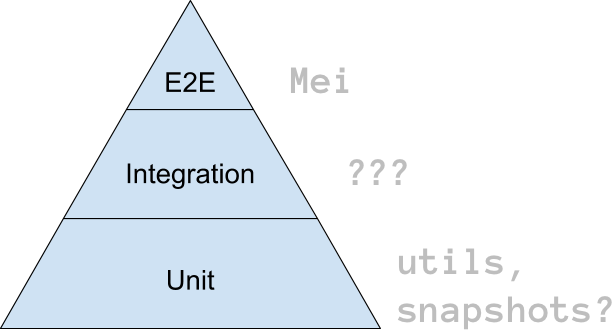
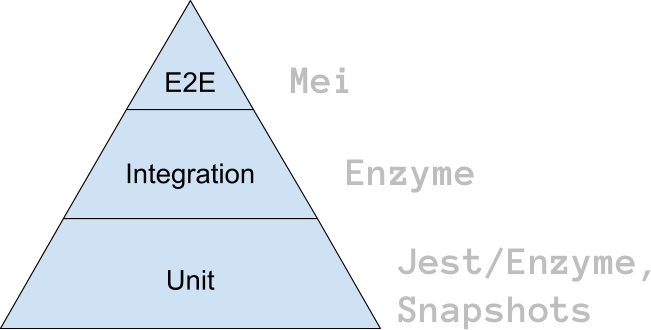
wip

diff --git a/snippets/gist.jsx b/snippets/gist.jsx
@@ -1,0 +1,61 @@
+//  login.js
+
+import React from 'react';
+
+const Login = ({ onSubmit }) => (
+  <div>
+    <form
+      data-test="login-form"
+      onSubmit={e => {
+        e.preventDefault();
+        const { username, password } = e.target.elements;
+        onSubmit({
+          username: username.value,
+          password: password.value,
+        });
+      }}
+    >
+      <input
+        placeholder="Username..."
+        name="username"
+        data-test="username-input"
+      />
+      <input
+        placeholder="Password..."
+        type="password"
+        name="password"
+        data-test="password-input"
+      />
+      <button type="submit" data-test="login-submit">
+        Submit
+      </button>
+    </form>
+  </div>
+);
+
+export default Login;
+
+//  login.test.js
+
+import React from 'react';
+import ReactDOM from 'react-dom';
+import Login from './login';
+
+const findElementByTestId = (node, id) =>
+  node.querySelector(`[data-test="${id}"]`);
+
+test('calls onSubmit with the username and password when submitted', () => {
+  const fakeUser = { username: 'chucknorris', password: '(╯°□°）╯︵ ┻━┻' };
+  const handleSubmit = jest.fn();
+  const div = document.createElement('div');
+  ReactDOM.render(<Login onSubmit={handleSubmit} />, div);
+  const usernameNode = findElementByTestId(div, 'username-input');
+  const passwordNode = findElementByTestId(div, 'password-input');
+  const formWrapper = findElementByTestId(div, 'login-form');
+  usernameNode.value = fakeUser.username;
+  passwordNode.value = fakeUser.password;
+  const event = new window.Event('submit');
+  formWrapper.dispatchEvent(event);
+  expect(handleSubmit).toHaveBeenCalledTimes(1);
+  expect(handleSubmit).toHaveBeenCalledWith(fakeUser);
+});

diff --git a/snippets/implementationDetailsWComments.jsx b/snippets/implementationDetailsWComments.jsx
@@ -1,0 +1,19 @@
+/*  1.  will this test break when there’s a mistake that would break
+       the component in production ?
+
+    ❌  we could mistakenly set`onClick` of the button to`this.tgogle` instead
+      of `this.toggle`.Test continues to work, but our component is broken./*
+
+/*  2.  will this test continue to work when there’s a fully backward
+       compatible refactor of the component ?
+
+    ❌  we could rename toggle to `handleButtonClick` (and update the corresponding
+        `onClick` reference). Test breaks despite this being a refactor.*/
+
+test('toggle changes the state of show', () => {
+  const wrapper = shallow(<HiddenMessage initialShow={true} />);
+  expect(wrapper.state().show).toBe(true); // initialized properly
+  wrapper.instance().toggle();
+  wrapper.update();
+  expect(wrapper.state().show).toBe(false); // toggled
+});

diff --git a/snippets/enzyme.jsx b/snippets/enzyme.jsx
@@ -1,0 +1,17 @@
+import React from 'react';
+import { mount, shallow } from 'enzyme';
+
+import Foo from './Foo';
+
+describe('<Foo />', () => {
+  it('renders three <Foo /> components', () => {
+    const wrapper = shallow(<MyComponent />);
+    expect(wrapper.find(Foo)).to.have.lengthOf(3);
+  });
+  it('allows us to set props', () => {
+    const wrapper = mount(<Foo bar="baz" />);
+    expect(wrapper.props().bar).to.equal('baz');
+    wrapper.setProps({ bar: 'foo' });
+    expect(wrapper.props().bar).to.equal('foo');
+  });
+});

diff --git a/theme.js b/theme.js
@@ -1,4 +1,4 @@
-import { future as theme } from 'mdx-deck/themes';
+import { dark as theme } from 'mdx-deck/themes';
 import nightOwl from 'prism-react-renderer/themes/nightOwl';
 
 export default {
@@ -6,6 +6,9 @@ export default {
   codeSurfer: {
     ...nightOwl,
     showNumbers: false,
+  },
+  li: {
+    margin: '2rem',
   },
 };
 

diff --git a/snippets/implementationDetails.jsx b/snippets/implementationDetails.jsx
@@ -1,0 +1,7 @@
+test('toggle changes the state of show', () => {
+  const wrapper = shallow(<HiddenMessage initialShow={true} />);
+  expect(wrapper.state().show).toBe(true); // initialized properly
+  wrapper.instance().toggle();
+  wrapper.update();
+  expect(wrapper.state().show).toBe(false); // toggled
+});
